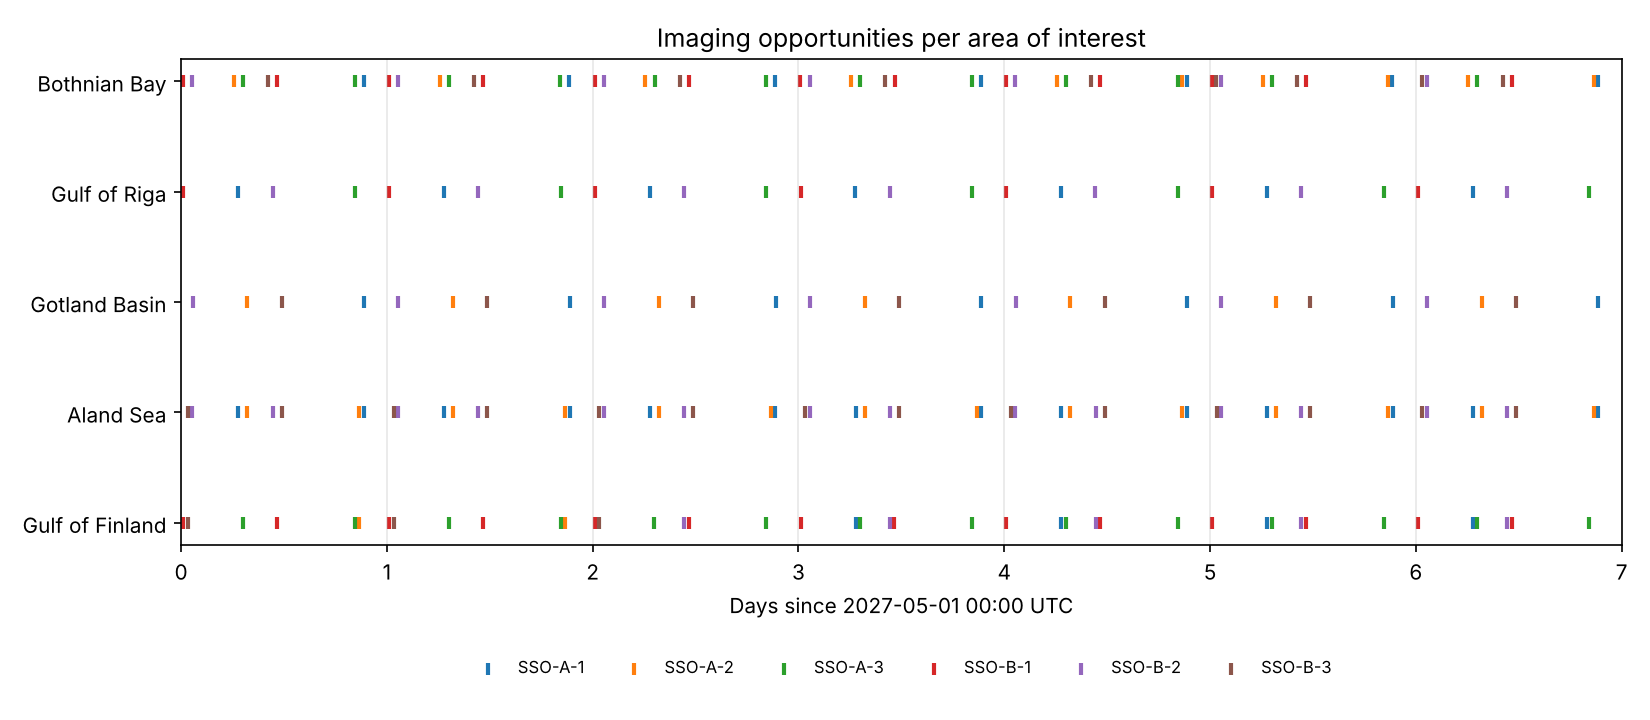
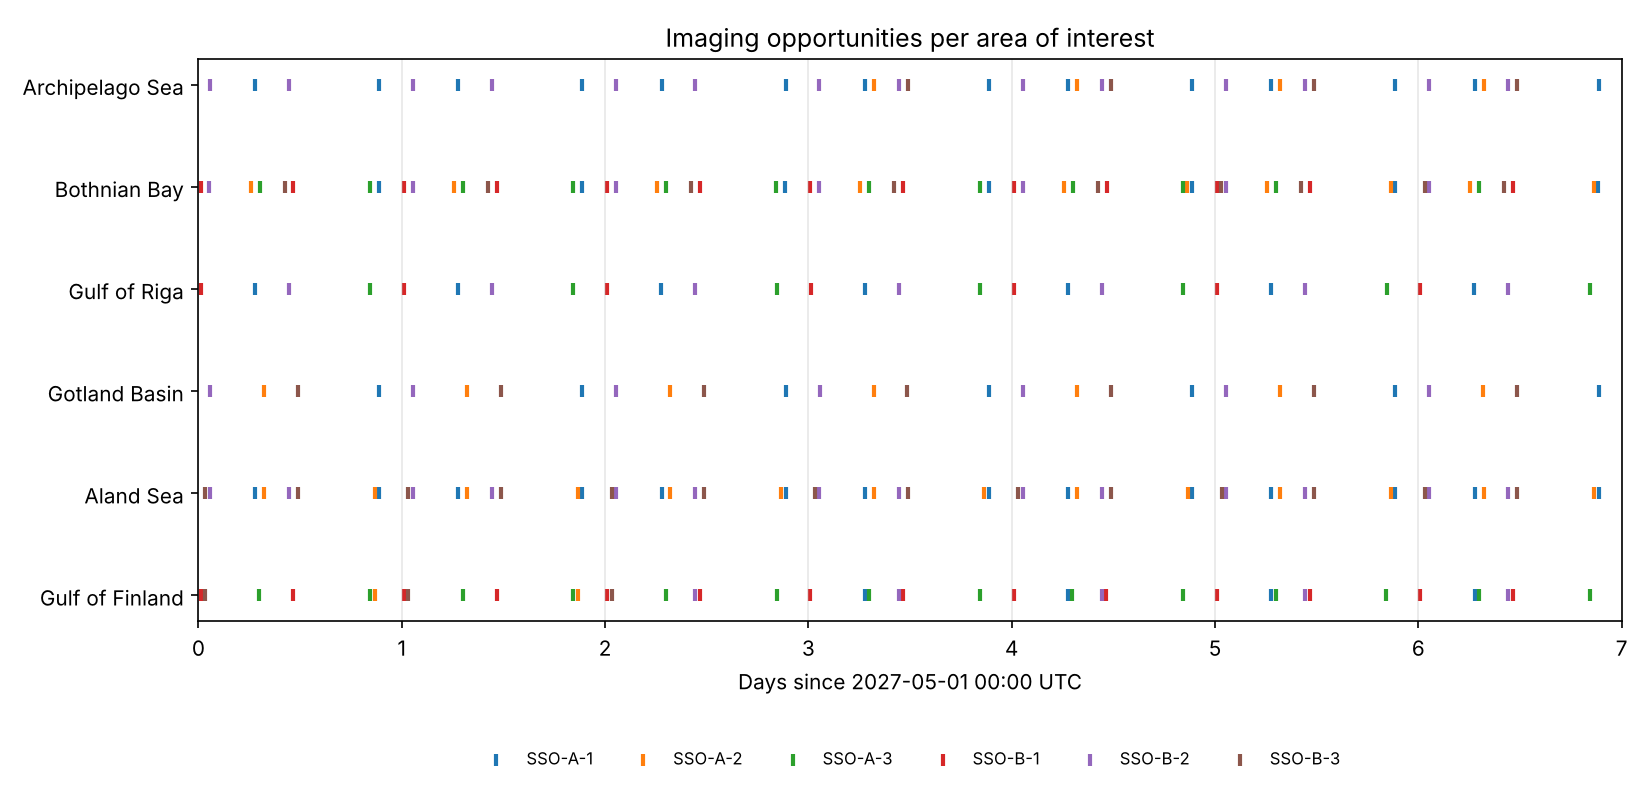
Regenerate example report with altitude trade study

diff --git a/docs/example_output/verification_report.md b/docs/example_output/verification_report.md
@@ -3,7 +3,7 @@
 - Customer: Example Coastal Authority (fictional)
 - Analysis window: 2027-05-01 00:00 UTC + 7 days, step 10 s
 - Constellation: 6 satellites in 2 planes
-- Generated: 2026-11-15 11:34 UTC by sarverify 0.1.0
+- Generated: 2026-11-15 11:42 UTC by sarverify 0.1.0
 
 **Acceptance status: MARGINAL**
 
@@ -11,7 +11,7 @@
 
 | ID | Requirement | Method | Criterion | Worst case | Scope | Margin | Status |
 |---|---|---|---|---|---|---|---|
-| MR-COV-001 | Maximum revisit over each area of interest | Analysis | Maximum revisit gap <= 12 h | 9.62 | Gotland Basin | +19.9% | PASS |
+| MR-COV-001 | Maximum revisit over each area of interest | Analysis | Maximum revisit gap <= 12 h | 10.65 | Archipelago Sea | +11.3% | PASS |
 | MR-COV-002 | Mean revisit over each area of interest | Analysis | Mean revisit gap <= 7 h | 6.07 | Gotland Basin | +13.2% | PASS |
 | MR-COV-003 | Imaging opportunities per area of interest | Analysis | Imaging opportunities per day >= 3.5 1/day | 4.00 | Gotland Basin | +14.3% | PASS |
 | MR-LAT-001 | Acquisition-to-delivery latency (P90) | Analysis | 90th percentile delivery latency <= 120 min | 110.37 | Bothnian Bay | +8.0% | MARGINAL |
@@ -28,6 +28,7 @@ Margins below 10% are reported as MARGINAL.
 | Gotland Basin | 4.00 | 6.07 | 9.62 | 108.3 | 100% | 33.4 - 36.3 |
 | Gulf of Riga | 4.00 | 6.07 | 9.61 | 108.4 | 100% | 31.6 - 35.1 |
 | Bothnian Bay | 8.29 | 2.90 | 9.55 | 110.4 | 100% | 15.0 - 45.0 |
+| Archipelago Sea | 5.14 | 4.68 | 10.65 | 109.1 | 100% | 31.1 - 44.8 |
 
 ## 3. Ground segment contacts
 
@@ -66,6 +67,7 @@ Rationale: Vessel tracks older than half a day lose operational value for the cu
 | Gotland Basin | 9.62 | <= 12 h | +19.9% | PASS |
 | Gulf of Riga | 9.61 | <= 12 h | +19.9% | PASS |
 | Bothnian Bay | 9.55 | <= 12 h | +20.4% | PASS |
+| Archipelago Sea | 10.65 | <= 12 h | +11.3% | PASS |
 
 ### MR-COV-002: Mean revisit over each area of interest
 
@@ -78,6 +80,7 @@ Rationale: Supports a three-to-four-times-daily maritime picture.
 | Gotland Basin | 6.07 | <= 7 h | +13.2% | PASS |
 | Gulf of Riga | 6.07 | <= 7 h | +13.2% | PASS |
 | Bothnian Bay | 2.90 | <= 7 h | +58.6% | PASS |
+| Archipelago Sea | 4.68 | <= 7 h | +33.1% | PASS |
 
 ### MR-COV-003: Imaging opportunities per area of interest
 
@@ -90,6 +93,7 @@ Rationale: Tasking flexibility to absorb conflicts between customers and areas.
 | Gotland Basin | 4.00 | >= 3.5 1/day | +14.3% | PASS |
 | Gulf of Riga | 4.00 | >= 3.5 1/day | +14.3% | PASS |
 | Bothnian Bay | 8.29 | >= 3.5 1/day | +136.7% | PASS |
+| Archipelago Sea | 5.14 | >= 3.5 1/day | +46.9% | PASS |
 
 ### MR-LAT-001: Acquisition-to-delivery latency (P90)
 
@@ -102,6 +106,7 @@ Rationale: Near-real-time products for maritime surveillance.
 | Gotland Basin | 108.34 | <= 120 min | +9.7% | MARGINAL |
 | Gulf of Riga | 108.43 | <= 120 min | +9.6% | MARGINAL |
 | Bothnian Bay | 110.37 | <= 120 min | +8.0% | MARGINAL |
+| Archipelago Sea | 109.13 | <= 120 min | +9.1% | MARGINAL |
 
 ### MR-GND-001: Downlink capacity per satellite
 

diff --git a/docs/example_output/altitude_trade.md b/docs/example_output/altitude_trade.md
@@ -1,0 +1,10 @@
+# Trade study: Baltic Maritime Awareness
+
+| Altitude (km) | Status | MR-COV-001 | MR-COV-002 | MR-COV-003 | MR-LAT-001 | MR-GND-001 |
+|---|---|---|---|---|---|---|
+| 500 | MARGINAL | 10.53 (PASS) | 4.31 (PASS) | 5.57 (PASS) | 109.53 (MARGINAL) | 170.36 (PASS) |
+| 560 | MARGINAL | 10.65 (PASS) | 6.07 (PASS) | 4.00 (PASS) | 110.37 (MARGINAL) | 189.36 (PASS) |
+| 620 | MARGINAL | 9.74 (PASS) | 3.44 (PASS) | 7.00 (PASS) | 111.24 (MARGINAL) | 208.52 (PASS) |
+| 700 | MARGINAL | 9.90 (PASS) | 3.24 (PASS) | 7.43 (PASS) | 112.41 (MARGINAL) | 239.21 (PASS) |
+
+Compliant altitudes: 500, 560, 620, 700 km

diff --git a/docs/example_output/trade_study.md b/docs/example_output/trade_study.md
@@ -3,7 +3,7 @@
 | Sats/plane | Total | Status | MR-COV-001 | MR-COV-002 | MR-COV-003 | MR-LAT-001 | MR-GND-001 |
 |---|---|---|---|---|---|---|---|
 | 2 | 4 | FAIL | 23.20 (FAIL) | 10.26 (FAIL) | 2.43 (FAIL) | 110.36 (MARGINAL) | 189.26 (PASS) |
-| 3 | 6 | MARGINAL | 9.62 (PASS) | 6.07 (PASS) | 4.00 (PASS) | 110.37 (MARGINAL) | 189.36 (PASS) |
+| 3 | 6 | MARGINAL | 10.65 (PASS) | 6.07 (PASS) | 4.00 (PASS) | 110.37 (MARGINAL) | 189.36 (PASS) |
 | 4 | 8 | MARGINAL | 9.29 (PASS) | 2.99 (PASS) | 8.00 (PASS) | 110.39 (MARGINAL) | 188.83 (PASS) |
 
 Smallest compliant constellation: 3 per plane (6 satellites)
